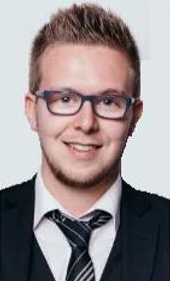
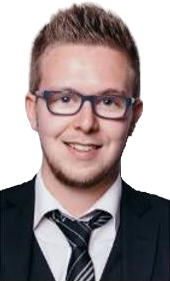
Visuel
On améliore encore le visuel et on continue le contenu

diff --git a/index.html b/index.html
@@ -15,9 +15,10 @@
 <div class="présentation">
 	<h1>Voici un petit site internet afin de me découvrir davantage </h1>
 	<div class="photo">
-	<img src="images/moi.png" alt="texte alternatif"/>
-</div>
+	<img src="images/moi.png" alt="texte alternatif" class="photo"/>
+	</div>
 	<h2>Qui suis-je ?</h2>
+
 	<form action="php.php" method="POST" enctype="multipart/form-data">
 		<fieldset>
 			<legend>Coordonnées</legend>
@@ -54,6 +55,8 @@
 				<input type="file" name="monFichier"  accept="application/jpeg" accept="application/png" multiple>
 			</div>
 		</fieldset>
+		</form>
+		<form>
 		<fieldset>
 			<legend>Expériences professionnelles</legend>
 			<div>
@@ -94,7 +97,12 @@
 					</optgroup>
 				</SELECT>
 			</div>
-
+			<div> 
+				<label for="etudiant-id"> Jobs étudiant </label> <select name="etudiant-id">
+					<OPTION SELECTED VALUE="">Menu déroulant</option>
+					<option value="weltrans"> Weltrans</option>
+						<option value="henriglace"> Henri Glaces</option>
+				</select> </div>
 				<div>
 					<label for="description-id"> Informations supplémentaires </label >
 				</div>
@@ -102,7 +110,15 @@
 					<textarea name="message" id="description-id" rows="4" cols="87">En pleine reconversion professionnelle, j'ai toujours eu un attrait prononcé pour l'informatique. Toujours prêt à accepter de nouveaux défis, je me considère comme quelqu'un de motivé, appliqué et déterminé. Je me remets sans cesse en question afin de m'améliorer dans mon travail professionnel. J'espère trouver un emploi stable où je pourrai m'épanouir et prévoir des projets à long terme.</textarea>
 				</div>	
 			</fieldset>
-			
+		</form>
+		<form>
+			<fieldset>
+				<legend>Formations</legend>
+				<div>
+					<label for="nom-id">A continuer </label> 
+					<input type="text" name="nom" id="nom-id" class="textfield" value="Van Buggenhout">  
+				</div>
+			</fieldset>
 		</form>
 </div>
 	

diff --git a/CSS/style.css b/CSS/style.css
@@ -9,8 +9,12 @@ h1 {
 	margin: auto ;
 }
 .photo {
+	-moz-border-radius:7px;
+	-webkit-border-radius:7px;
+	border-radius:7px;
 	text-align: center;
 }
+
 h2 {
 	text-align: center;
 	color: rgb(255, 255, 255);
@@ -33,7 +37,12 @@ form {
 	background: white;
 	padding: 20px;
 	width: 800px;
-	margin: auto;
+	border-radius: 30px;
+	line-height: 50px;
+	text-align: center;
+	margin-left: auto;
+    margin-right: auto;
+	margin-bottom: 50px;
 }
 
 legend {
@@ -45,7 +54,7 @@ legend {
 
 fieldset {
 	margin: 20px;
-	border: 3px solid whitesmoke;
+	border: 3px solid rgb(11, 137, 191);
 }
 
 .textfield
